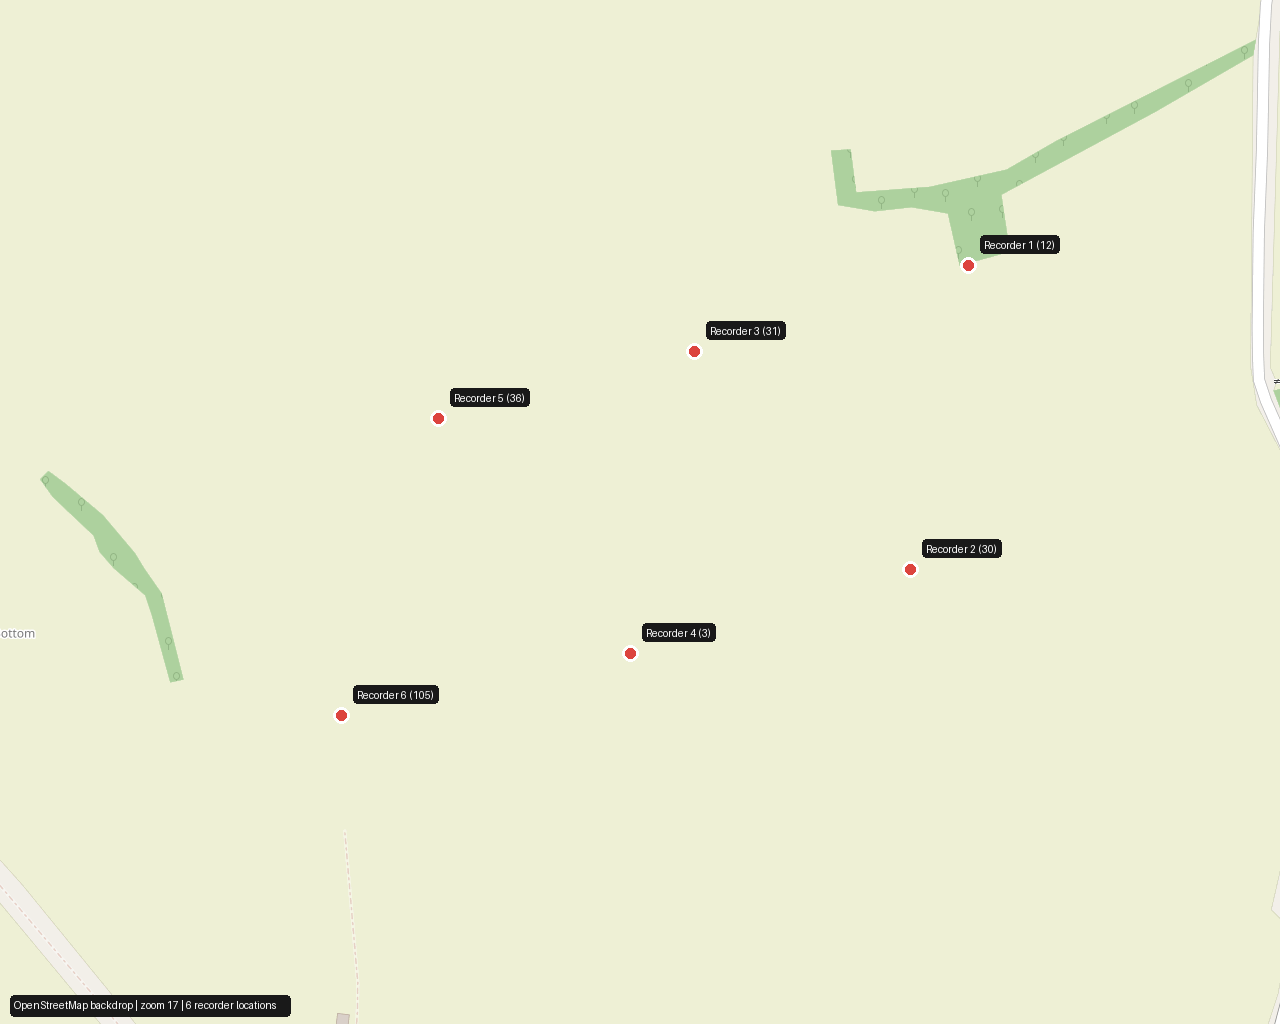
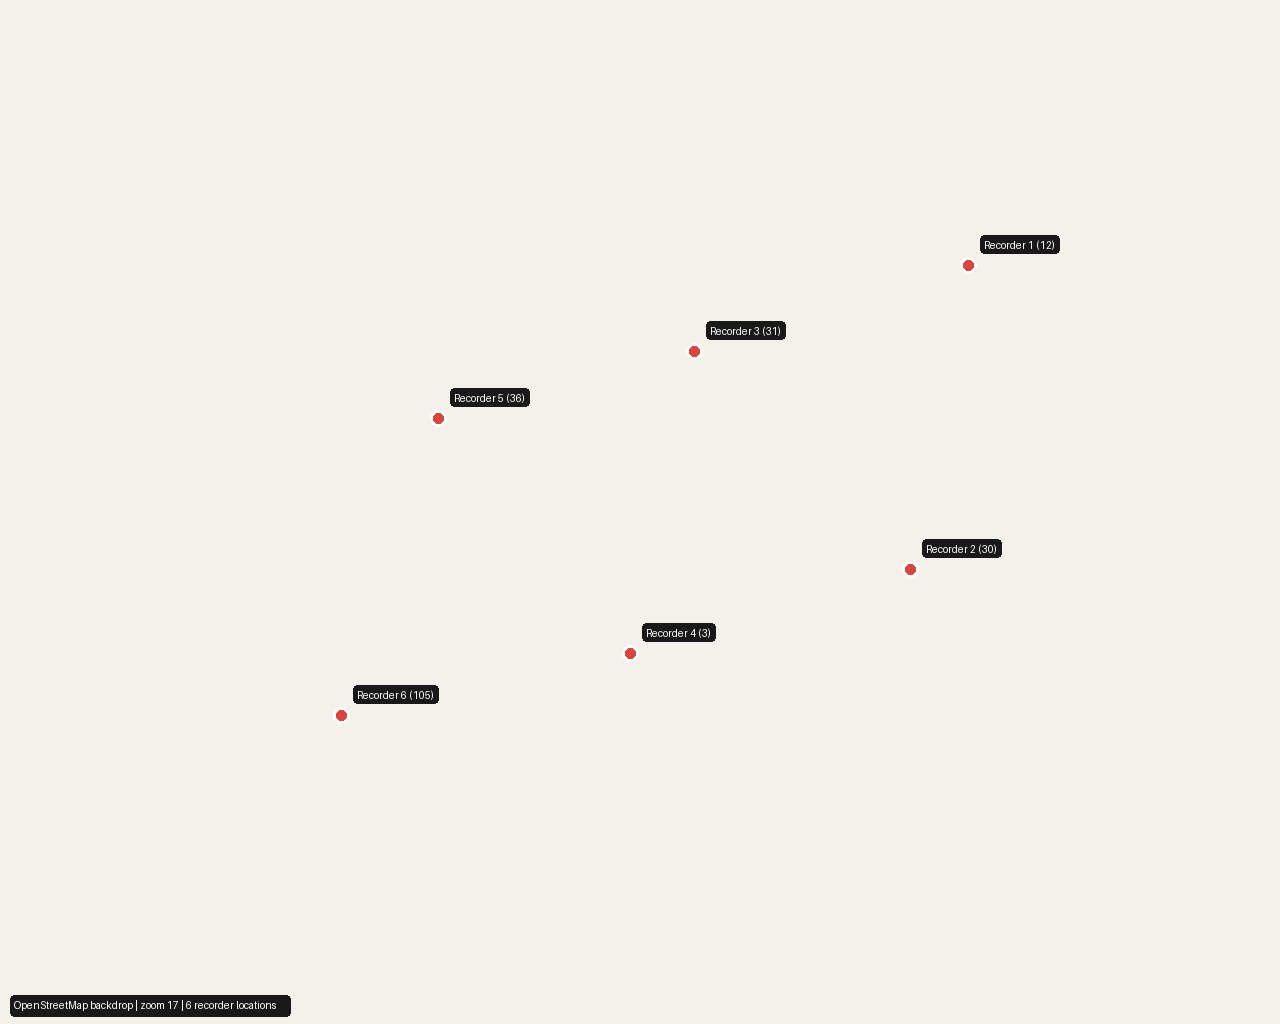
Assume clocks fairly accurate, but add up to 20 degrees bearing error. Zero detections.

diff --git a/triangulate.py b/triangulate.py
@@ -42,9 +42,9 @@ INPUT_FILES = [
 
 # Filtering and grouping parameters.
 TDOA_THRESHOLD_MS = 0.025
-EVENT_WINDOW_SECONDS = 0.75
+EVENT_WINDOW_SECONDS = 1.5
 MIN_SITES_PER_EVENT = 3
-EVENT_WINDOW_SWEEP_SECONDS = [0.5, 0.75, 1.0, 2.0, 5.0, 10.0, 15.0]
+EVENT_WINDOW_SWEEP_SECONDS = [0.5, 0.75, 1.0, 1.5, 2.0, 5.0, 10.0, 15.0]
 MAX_PAIR_DELTA_SECONDS = 45.0
 
 # Site clustering parameters in metres.
@@ -58,7 +58,10 @@ MIN_RECORDS_PER_LOCATION = 2
 TDOA_WEIGHT_LOW_MS = TDOA_THRESHOLD_MS
 TDOA_WEIGHT_HIGH_MS = 0.25
 MIN_WEIGHT = 0.05
-ORIENTATION_SIGMA_DEG = 3.0
+# This short-baseline array can show several degrees of bearing drift from
+# orientation and TDOA estimation errors, so the robust solver needs a wider
+# residual scale than the original 3° assumption.
+ORIENTATION_SIGMA_DEG = 20.0
 
 MAX_ACCEPTABLE_RMS_DEG = 18.0
 MIN_GEOMETRY_SCORE = math.sin(math.radians(10.0))
@@ -1228,8 +1231,25 @@ def main() -> None:
 
     combined = load_and_prepare_data(INPUT_FILES)
     combined_with_sites, sites = assign_canonical_sites(combined)
-    calibration = calibrate_site_clock_offsets(combined_with_sites)
-    corrected = apply_site_clock_offsets(combined_with_sites, calibration)
+
+    # GPS-synced recorders are assumed to be time-aligned; disable offset
+    # calibration unless evidence suggests drift between devices.
+    calibration = OffsetCalibration(
+        reference_site_id=int(sorted(combined_with_sites["site_id"].unique())[0]),
+        offsets_s={int(site_id): 0.0 for site_id in sorted(combined_with_sites["site_id"].unique())},
+        site_pair_stats=pd.DataFrame(columns=[
+            "reference_site_id",
+            "other_site_id",
+            "n_matches",
+            "median_delta_s_other_minus_ref",
+            "mad_delta_s",
+            "p10_delta_s",
+            "p90_delta_s",
+            "applied_correction_s",
+        ]),
+    )
+    corrected = combined_with_sites.copy()
+    corrected["corrected_event_time"] = corrected["event_time"].copy()
     diagnostics = build_event_matching_diagnostics(combined_with_sites, corrected, calibration)
     event_members = build_events(corrected)
     solutions = solve_all_events(event_members)
